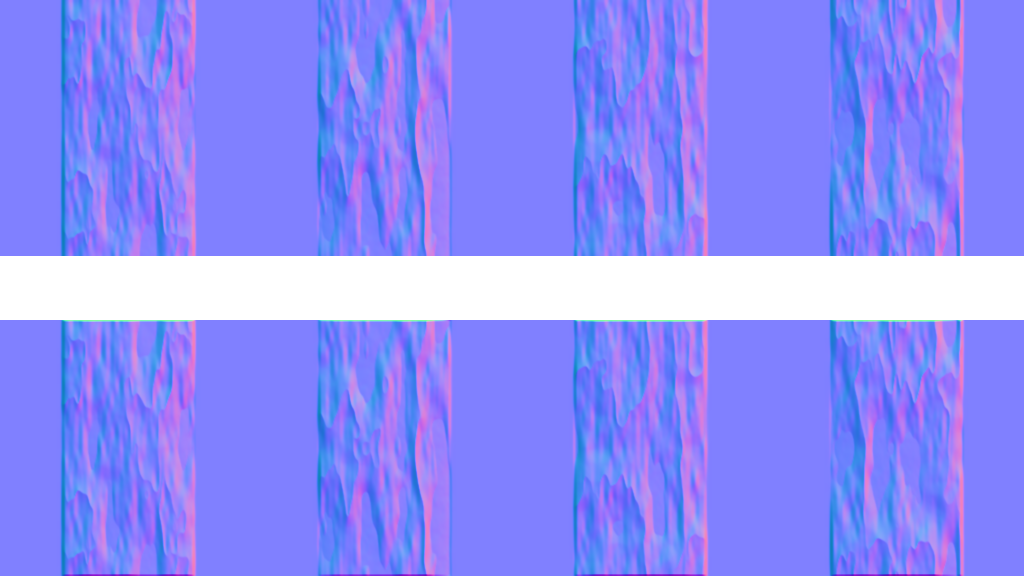
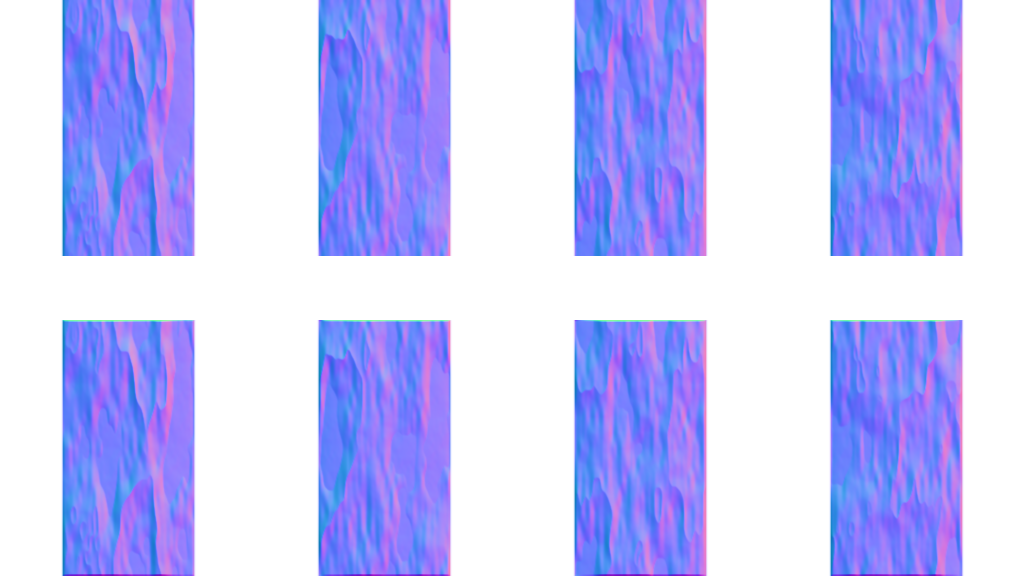
Pnie: przezroczysta tekstura (bez czarnego prostokąta), bez kreski; ciemniejsza paleta lasu

diff --git a/prototype/tools/world_hd_materials.py b/prototype/tools/world_hd_materials.py
@@ -250,9 +250,9 @@ def wall():
 
 
 def post():
-    """Pień drzewa / słup tła: pionowa belka na środku kafla (x 64..192) na ciemnym tle; kora z głębokimi pionowymi bruzdami, ciemniejsza ku brzegom (obłość)."""
+    """Pień drzewa / słup tła: pionowa belka na środku kafla (x 64..192), reszta kafla PRZEZROCZYSTA (las w tle prześwituje);
+    kora z głębokimi pionowymi bruzdami, ciemniejsza ku brzegom (obłość)."""
     yy, xx = np.mgrid[0:S, 0:W]
-    bg = np.array([0.045, 0.05, 0.065])
     cx = (xx % 256 - 128).astype(float)
     inb = gaussian_filter((np.abs(cx) < 66).astype(float), 1.0)
     furrow = 1 - np.abs(2 * fbm(S, W, 2, 28, 4) - 1)                         # grzbiety kory (rozciągnięte w pionie)
@@ -264,9 +264,8 @@ def post():
     bark *= (0.45 + 0.7 * round_sh)[..., None]
     moss = np.clip(fbm(S, W, 3, 14, 3) - 0.62, 0, 1) * 3.0
     bark = bark * (1 - 0.5 * moss[..., None]) + 0.5 * moss[..., None] * np.array([0.05, 0.09, 0.04])
-    rgb = bg * (1 - inb[..., None]) + bark * inb[..., None]
     h = inb * (9 * round_sh + 5 * ridge - 2.5 * (1 - ridge) + 2 * (gr - 0.5))
-    pack("post", rgb, h, nk=0.9)
+    pack("post", bark, h, nk=0.9, fill_a=np.clip(inb * 1.6, 0, 1))
 
 
 def mud():

diff --git a/GDD.md b/GDD.md
@@ -849,6 +849,7 @@ Prototyp w `dead-air-87/prototype/` jest vertical slice'em, nie grą. Poniższe 
 | 1.7.116 | 2026-10-10 | **Mgła (FOG): czystszy obraz.** Welon mgły rozmywał ekran 16 punktami w pierścieniu, więc jasne drobiazgi (celownik, gwiazdy, cząsteczki) dawały „duchy” kopii — kropkowany dysk wokół celownika i podwójne kontury postaci. Teraz poświata pochodzi z mip-ów ekranu (jedno miękkie rozmycie), szum pasm jest gładszy (interpolacja piątego stopnia, obracane oktawy), pasma są rozciągnięte poziomo w dwóch warstwach, welon zachowuje barwę obiektów i nie jaśnieje ponad oryginał, a sama mgła delikatnie rozświetla ciemność przy ziemi; dodany dithering przeciw pasom. `weather_fx.gd`. |
 | 1.7.117 | 2026-10-10 | **Obrażenia i krew na postaciach.** (1) Postać 3D ma krew w materiale modelu (`char3d.gd`, `damage`): plamy w przestrzeni UV przyklejone do ciała przy animacji, ciemny karmin z mokrym połyskiem w świetle lamp (nie świecą same), rosnące z utraconym zdrowiem od lekkich plam do przesiąknięcia; przy ciężkich ranach tułów jest zgarbiony. Zastępują jaskrawe kółka rysowane w warstwie `unshaded` (te zostały tylko dla postaci 2D, ściemnione). (2) Trafienie: krótki czerwony, nie biały błysk. (3) Ranny gracz kapie krwią (MEDIUM+), a na HIGH krople zostawiają plamy na podłodze (`blood_decals.gd`, limit 24, blakną po 60 s). „Reduce effects” wyłącza kapanie i plamy na podłodze. Wszystko wynika z replikowanego `hp`, więc widać u wszystkich graczy; kierunek trafienia nie wpływa na rozkład plam. |
 | 1.7.118 | 2026-10-10 | **Las w tle: wektorowy, z mgłą jako gradient.** (1) W grafice HD trzy warstwy grzbietów (`ridge_far/mid/near`) to geometria zamiast rastrów 2048×960 (te rozciągały się ok. 5× na teksel przy zoomie i 4K): ostre sylwetki świerków przy każdej rozdzielczości, kolory w wierzchołkach, jaśniejszy czubek korony jako krawędź księżyca, perspektywa atmosferyczna (pas mgły u podnóża warstwy, bliższe warstwy ciemniejsze), wypełnienie podnóża sięga w dół poniżej 480 px tła (`backdrop.gd`, `FOREST`). (2) Usunięta stała warstwa szumowej mgły `fog.png`, która dawała brudny pas i pasma przy CLEAR NIGHT. Pogoda FOG nadal podbija jasność grzbietów. (3) Słupy `w` dostają cienką krawędź księżyca (`level.gd`, `_add_post_rims`), żeby nie były czarnymi prostokątami. Klasyczna grafika bez zmian. |
+| 1.7.119 | 2026-10-10 | **Pnie i kolor lasu.** (1) Tekstura HD słupa/pnia (`mat_post.png`) była nieprzezroczysta na całym kaflu 16 px, więc wokół kory (8 px) widać było czarny prostokąt przecinający las; teraz poza pniem jest przezroczysta (`world_hd_materials.py`, `post()`, `fill_a`). (2) Usunięta cienka krawędź „księżyca” na słupach (była widoczna jako niebieska kreska). (3) Paleta lasu (`FOREST`) ciemniejsza i mniej liliowa: chłodna szarość z lekką zielenią zamiast bladego fioletu; mgła u podnóża słabsza. |
 
 ---
 
